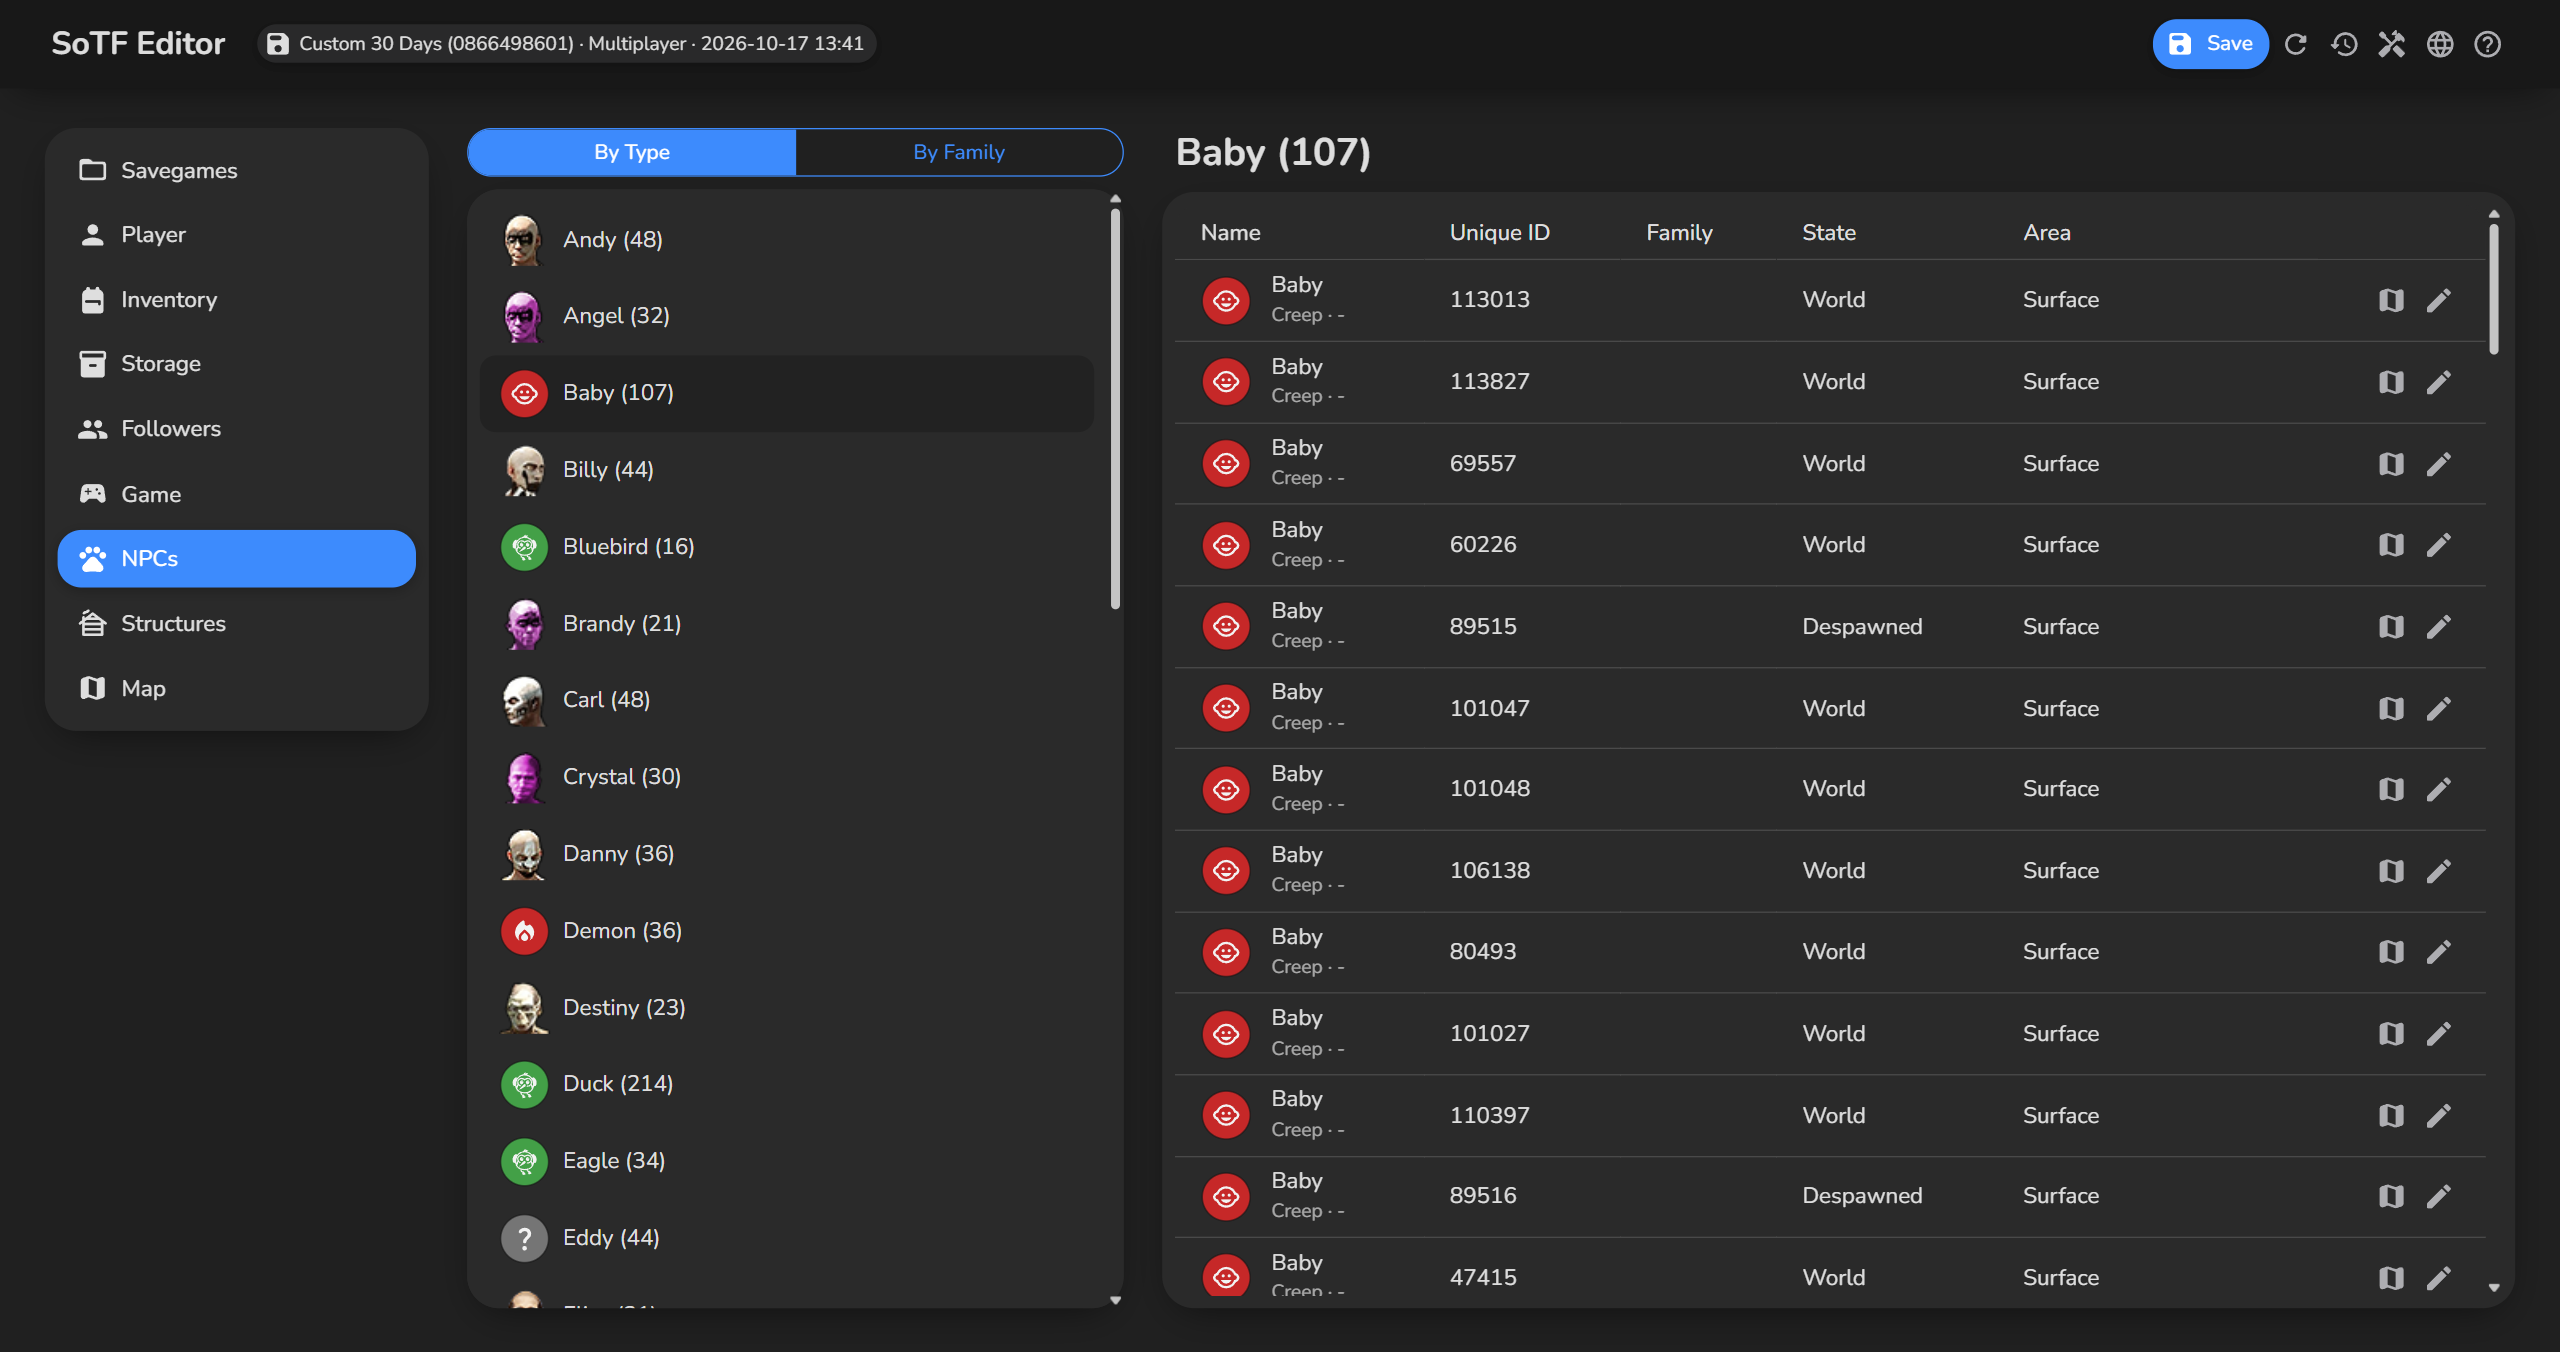
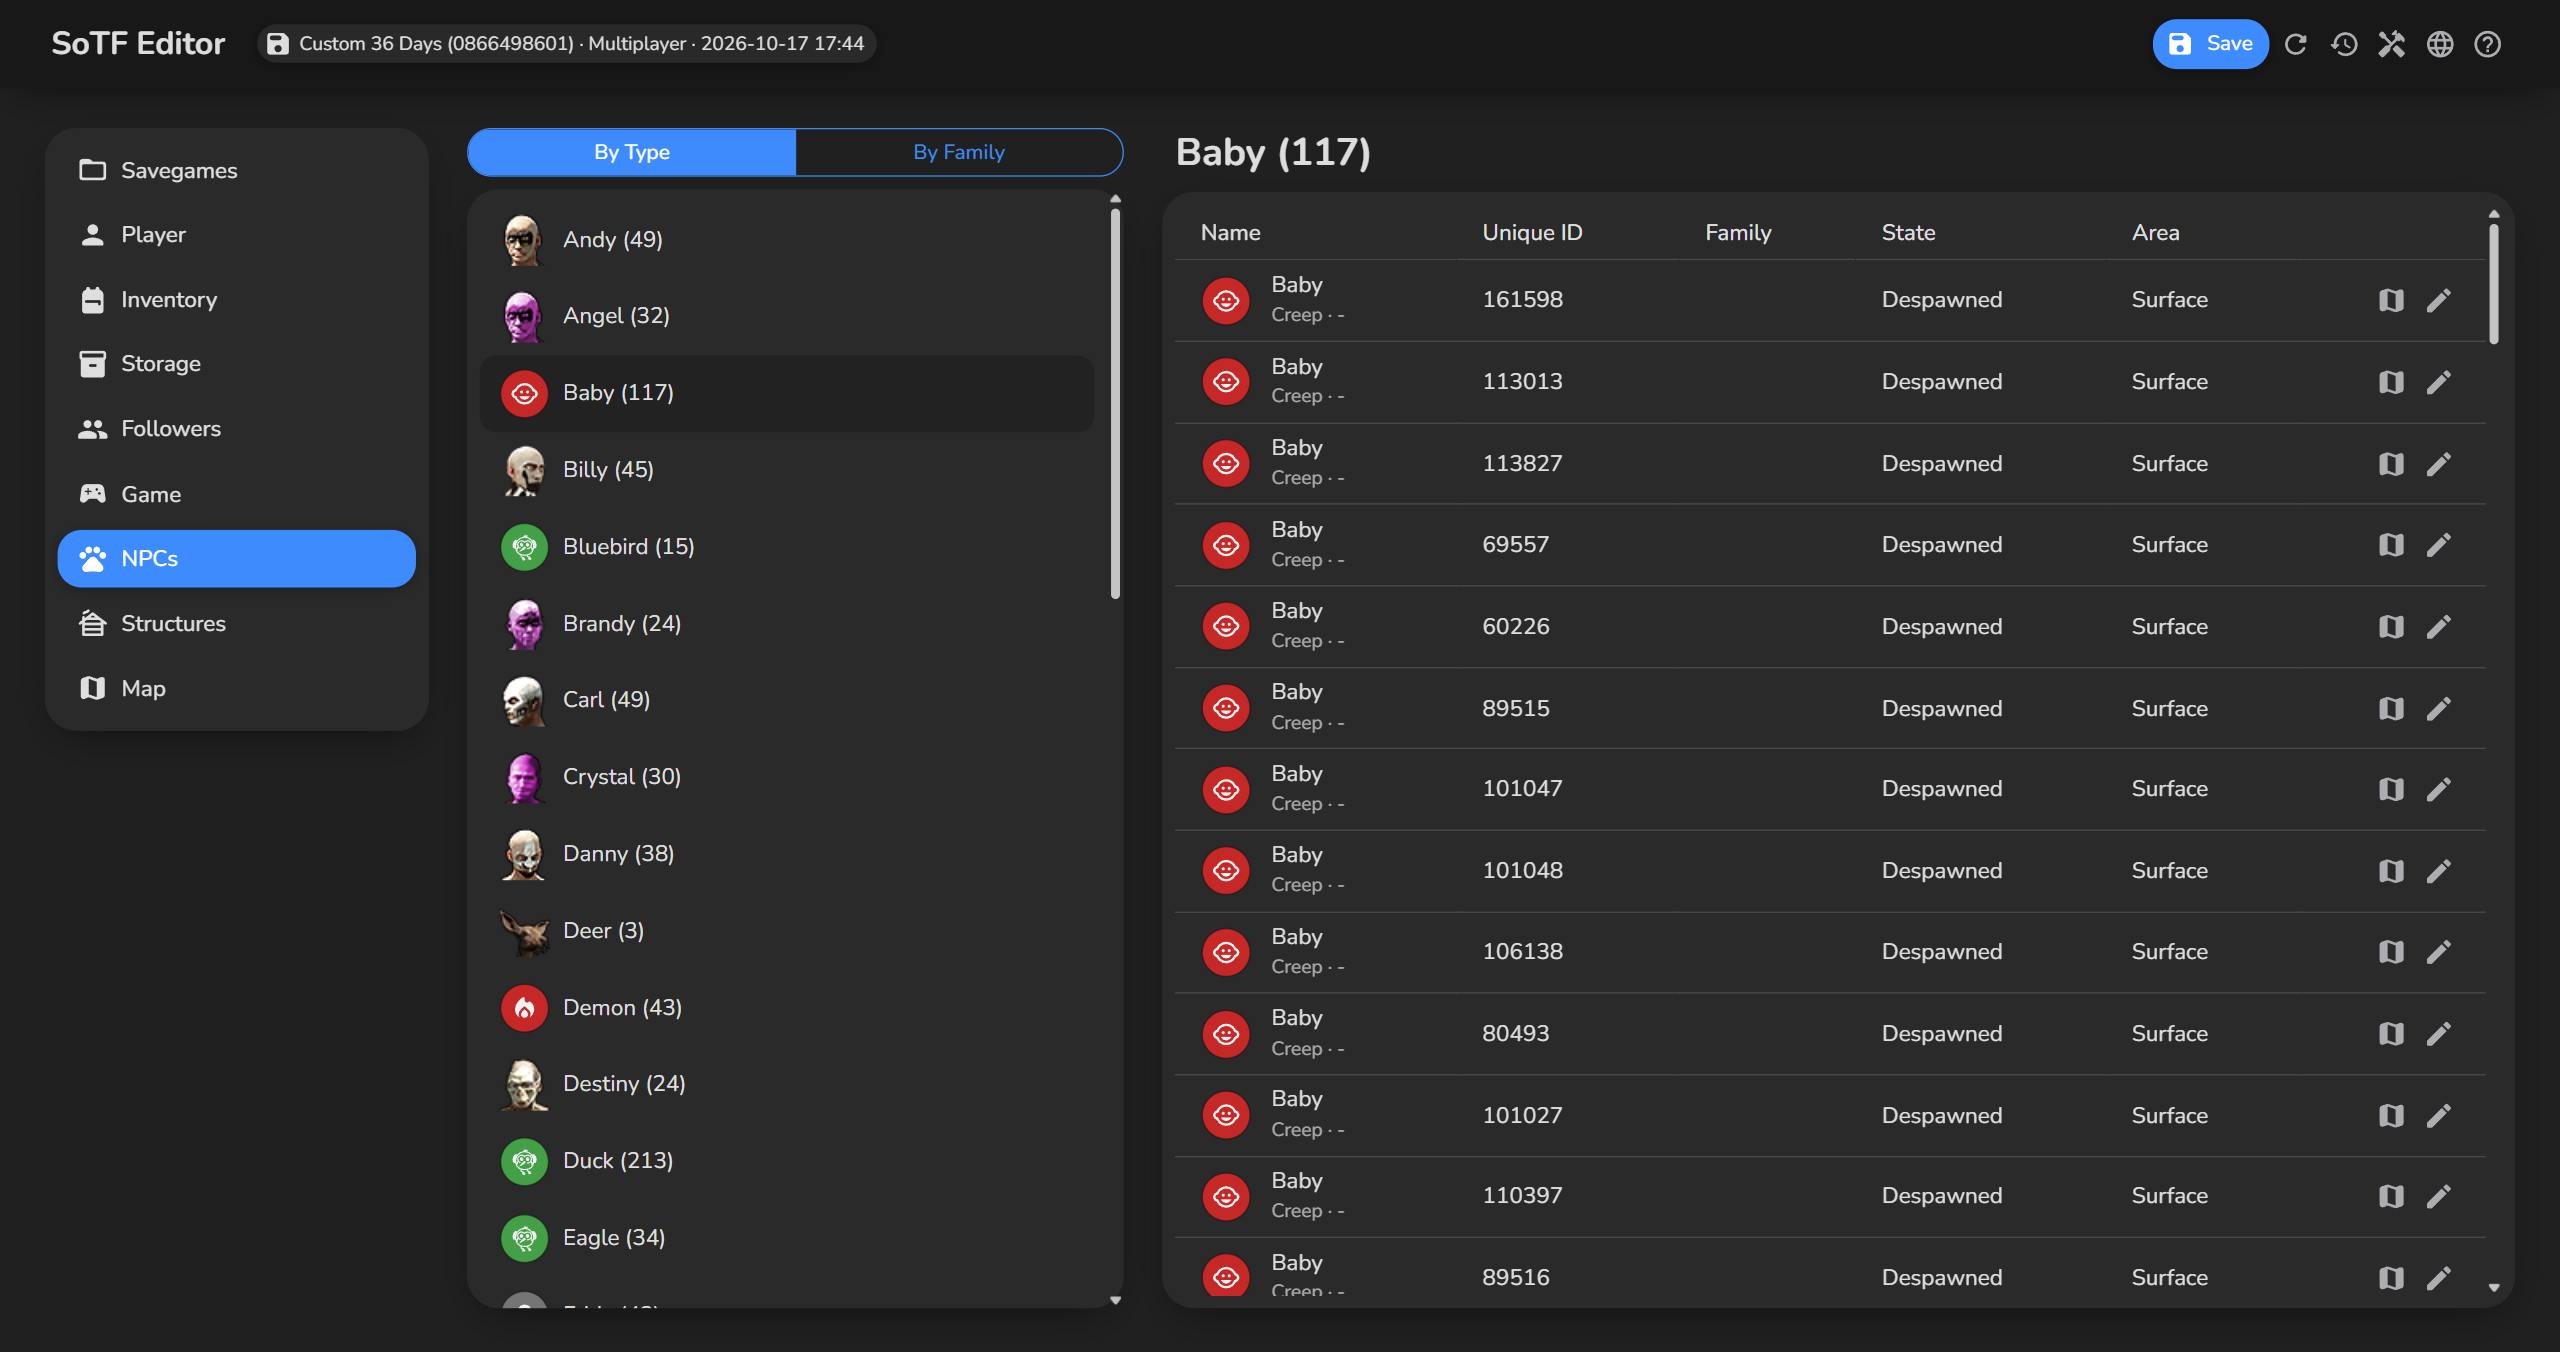
Add Season Picker, Refresh Screenshots And Release 1.5

diff --git a/SoTF.Editor.Desktop/Components/Pages/Game.razor.cs b/SoTF.Editor.Desktop/Components/Pages/Game.razor.cs
@@ -1,4 +1,5 @@
 using Microsoft.AspNetCore.Components;
+using SoTF.Editor.Data.Helpers;
 using SoTF.Editor.Data.Models;
 using SoTF.Editor.Desktop.Components.Shared.Common;
 using SoTF.Editor.Services.Pages;
@@ -195,6 +196,46 @@ public partial class Game : EditorPageBase
         return options.FirstOrDefault(option => option.Value == value) is { } option
             ? Localizer[option.LabelKey]
             : value ?? string.Empty;
+    }
+
+    // The Season Follows Days Plus Offset, Picking Moves The Offset
+    private GenericSetting? OffsetSetting =>
+        Weather.Settings.FirstOrDefault(setting => setting.Name == "_startingDayOffset");
+
+    private double? DaysPerSeason =>
+        SeasonCalendar.DaysPerSeason(
+            GameSetup.GetString(GameSetupKeys.SeasonLength, SettingValueDefault)
+        );
+
+    private double DaysPlayed =>
+        (GameStateValue("GameDays") ?? 0) + ((GameStateValue("GameHours") ?? 0) / 24.0);
+
+    private string? CurrentSeason =>
+        DaysPerSeason is { } daysPerSeason && OffsetSetting is { } offset
+            ? s_seasons[
+                SeasonCalendar.SeasonAt(DaysPlayed, offset.DecimalValue ?? 0, daysPerSeason)
+            ].Value
+            : null;
+
+    private int? GameStateValue(string name)
+    {
+        return GameState.Settings.FirstOrDefault(setting => setting.Name == name)?.IntValue;
+    }
+
+    private void ChangeSeason(string? season)
+    {
+        var index = Array.FindIndex(s_seasons, option => option.Value == season);
+        if (index < 0 || DaysPerSeason is not { } daysPerSeason || OffsetSetting is not { } offset)
+        {
+            return;
+        }
+
+        offset.DecimalValue = SeasonCalendar.OffsetFor(
+            index,
+            DaysPlayed,
+            offset.DecimalValue ?? 0,
+            daysPerSeason
+        );
     }
 
     private sealed record SettingOption(string Value, string LabelKey);

diff --git a/SoTF.Editor.Data/Helpers/SeasonCalendar.cs b/SoTF.Editor.Data/Helpers/SeasonCalendar.cs
@@ -1,0 +1,47 @@
+using System.Diagnostics;
+
+namespace SoTF.Editor.Data.Helpers;
+
+public static class SeasonCalendar
+{
+    static SeasonCalendar()
+    {
+        Debug.Assert(SelfTestPasses());
+    }
+
+    public static double? DaysPerSeason(string seasonLength)
+    {
+        // Short Is Untested In Game, So It Gets No Picker
+        return seasonLength switch
+        {
+            "Default" => 5,
+            "Long" => 10,
+            "Realistic" => 90,
+            _ => null,
+        };
+    }
+
+    public static int SeasonAt(double days, double offset, double daysPerSeason)
+    {
+        // Spring Is Zero, Then Summer, Autumn And Winter
+        var season = (int)Math.Floor((days + offset) / daysPerSeason) % 4;
+        return (season + 4) % 4;
+    }
+
+    public static double OffsetFor(int season, double days, double offset, double daysPerSeason)
+    {
+        // Whole Seasons Forward, So The Day Within It Stays
+        var seasonsAhead = (season - SeasonAt(days, offset, daysPerSeason) + 4) % 4;
+        return offset + (seasonsAhead * daysPerSeason);
+    }
+
+    private static bool SelfTestPasses()
+    {
+        // Tested In Game: Day 36 Offset 5 Spring, 15 Autumn
+        return SeasonAt(36.4, 5, 5) == 0
+            && SeasonAt(36.4, 15, 5) == 2
+            && OffsetFor(3, 36.4, 5, 5) == 20
+            && SeasonAt(36.4, OffsetFor(1, 36.4, 15, 5), 5) == 1
+            && SeasonAt(2, -8, 5) == 2;
+    }
+}

diff --git a/CLAUDE.md b/CLAUDE.md
@@ -108,9 +108,9 @@ The last table row has no bottom line. A table whose rows virtualize keeps its c
 - A MultiplayerClient save holds only the player: world pages show a hint and world tools are disabled.
 - There is no Delete Backups action, on purpose.
 - The update check reads the `releases/latest` redirect without following it, so it needs no token. A `v1.0` tag parses as `1.0`, which is lower than the assembly's `1.0.0.0`, so it never prompts falsely.
-- The save holds no length per season. Only the custom game setting `SeasonLength` exists, and it applies to every season. The Weather tab's Season Day Offset (`_startingDayOffset`) shifts where the year stands, so lowering it keeps the current season longer; it is not tested in game yet. The tab has no Season: the game derives it from days and the offset.
+- The save holds no length per season. Only the custom game setting `SeasonLength` exists, and it applies to every season. The Weather tab's Season Day Offset (`_startingDayOffset`) shifts where the year stands, so lowering it keeps the current season longer. Tested in game: day 36 at offset 5 showed spring, offset 15 autumn. The season is `floor((days + offset) / days per season) mod 4` from Spring (`SeasonCalendar`: Default 5, Long 10, Realistic 90; Short is unknown, so it gets no picker). The Season row is computed, not saved: picking one moves the offset by whole seasons.
 - `_startingDayOffset` is saved as `5.0`. It is a `Decimal` setting holding a `double`, so a no-op save writes the exact number back; an `int` made every save a change.
-- Max Health is `100 + 2` per Strength Level above 1, so the page derives it and keeps the box read-only. `TargetHealth` is written only when Current Health changed. Moving the player clears `player.localToRaftUniqueId`, or the game puts them back on the raft.
+- Max Health is `100 + 2` per Strength Level above 1, so the page derives it and keeps the box read-only; in game, a save storing 100 at level 41 showed health at about half. `TargetHealth` is written only when Current Health changed. Moving the player clears `player.localToRaftUniqueId`, or the game puts them back on the raft (seen in game). Inventory Pause was checked in game too: with it on, the minimap markers stand still in the inventory.
 - `PlayerState.CurrentHealth` reads capped by `MaxHealth` but keeps the value set, so lowering max and raising it again brings current health back. Both health sliders share one scale, so the current health thumb stays put while max moves.
 
 ## Verify
@@ -120,5 +120,5 @@ The last table row has no bottom line. A table whose rows virtualize keeps its c
 - After a refactor, compare old and new behaviour: `git archive HEAD` into the scratchpad, run one harness (`#:project` plus `Microsoft.Extensions.DependencyInjection`, registered like `App`) against both Services projects on the same save copies, and diff what it writes: page state, every map point under each filter, and every decoded file after page edits, tools, actor edits and plating. Seeds and GUIDs are random, so normalize them first. The harness writes the Debug settings and backups, so it restores the settings file and removes only the backup folders it created.
 - Before touching anything near the real saves, hash every file under `Saves` and keep a verified copy; compare the hashes afterwards. Only the game may change them.
 - Look at the app over CDP: start it with `WEBVIEW2_ADDITIONAL_BROWSER_ARGUMENTS=--remote-debugging-port=9333`, and `http://127.0.0.1:9333/json` lists the page. Check both languages.
-- In the game, test with an edited copy in a new folder, `Saves\<steam id>\SinglePlayer\<new ten digit id>`: Single Player, Continue lists it with its `GameName` and day count, even when it came from a multiplayer save. Load it, check, and quit without saving. Tab opens the inventory, Escape the pause menu; the game runs borderless on the primary screen, so screen captures work. Delete the test folder while the game is still running, then exit: Steam Auto-Cloud uploads a new folder at exit and downloads it again if it was deleted while the game was closed.
+- In the game, test with an edited copy in a new folder, `Saves\<steam id>\SinglePlayer\<new ten digit id>` with the id below 2147483647 (the game skips a larger one), edited with a file-based app on the Services; writes to `LocalLow` from a session land in the real folder: Single Player, Continue lists it with its `GameName` and day count, even when it came from a multiplayer save. Load it, check, and quit without saving. Tab opens the inventory, Escape the pause menu; the game runs borderless on the primary screen, so screen captures work. Delete the test folder while the game is still running, then exit: Steam Auto-Cloud uploads a new folder at exit and downloads it again if it was deleted while the game was closed.
 - A Release exe run from another folder writes the real `%AppData%\SoTF.Editor` and `Documents\SoTF.Editor`; delete what a test run left there.

diff --git a/README.md b/README.md
@@ -11,8 +11,8 @@ A savegame editor for Sons of the Forest, with a verified backup before every sa
 ## Features
 - Player stats, outfit, armour and inventory
 - Every storage filled, maxed or cleared in one click
-- Kelvin and Virginia: stats, outfit, items, revive or spawn more
-- Game setup, game state, weather, NPCs and structures
+- Kelvin and Virginia, spawned copies too: stats, outfit, items, revive or spawn more
+- Game setup, game state, season and weather, NPCs and structures
 - A map to teleport the player and followers or spawn actors
 - Updates itself from inside the app
 - English and Dutch
@@ -25,6 +25,7 @@ A savegame editor for Sons of the Forest, with a verified backup before every sa
 ## ⚠ Important
 - Start the game and stay in the main menu while you edit, then load the save, so Steam Cloud cannot overwrite your changes
 - Every save first copies the whole savegame to `Documents\SoTF.Editor\Backups`, nothing there is ever deleted, and any backup can be restored from the app
+- A multiplayer client save only holds your own player, the world lives in the host's save
 - Windows may warn on the first run because the app is not signed: click More info, then Run anyway
 
 ## Technical details
